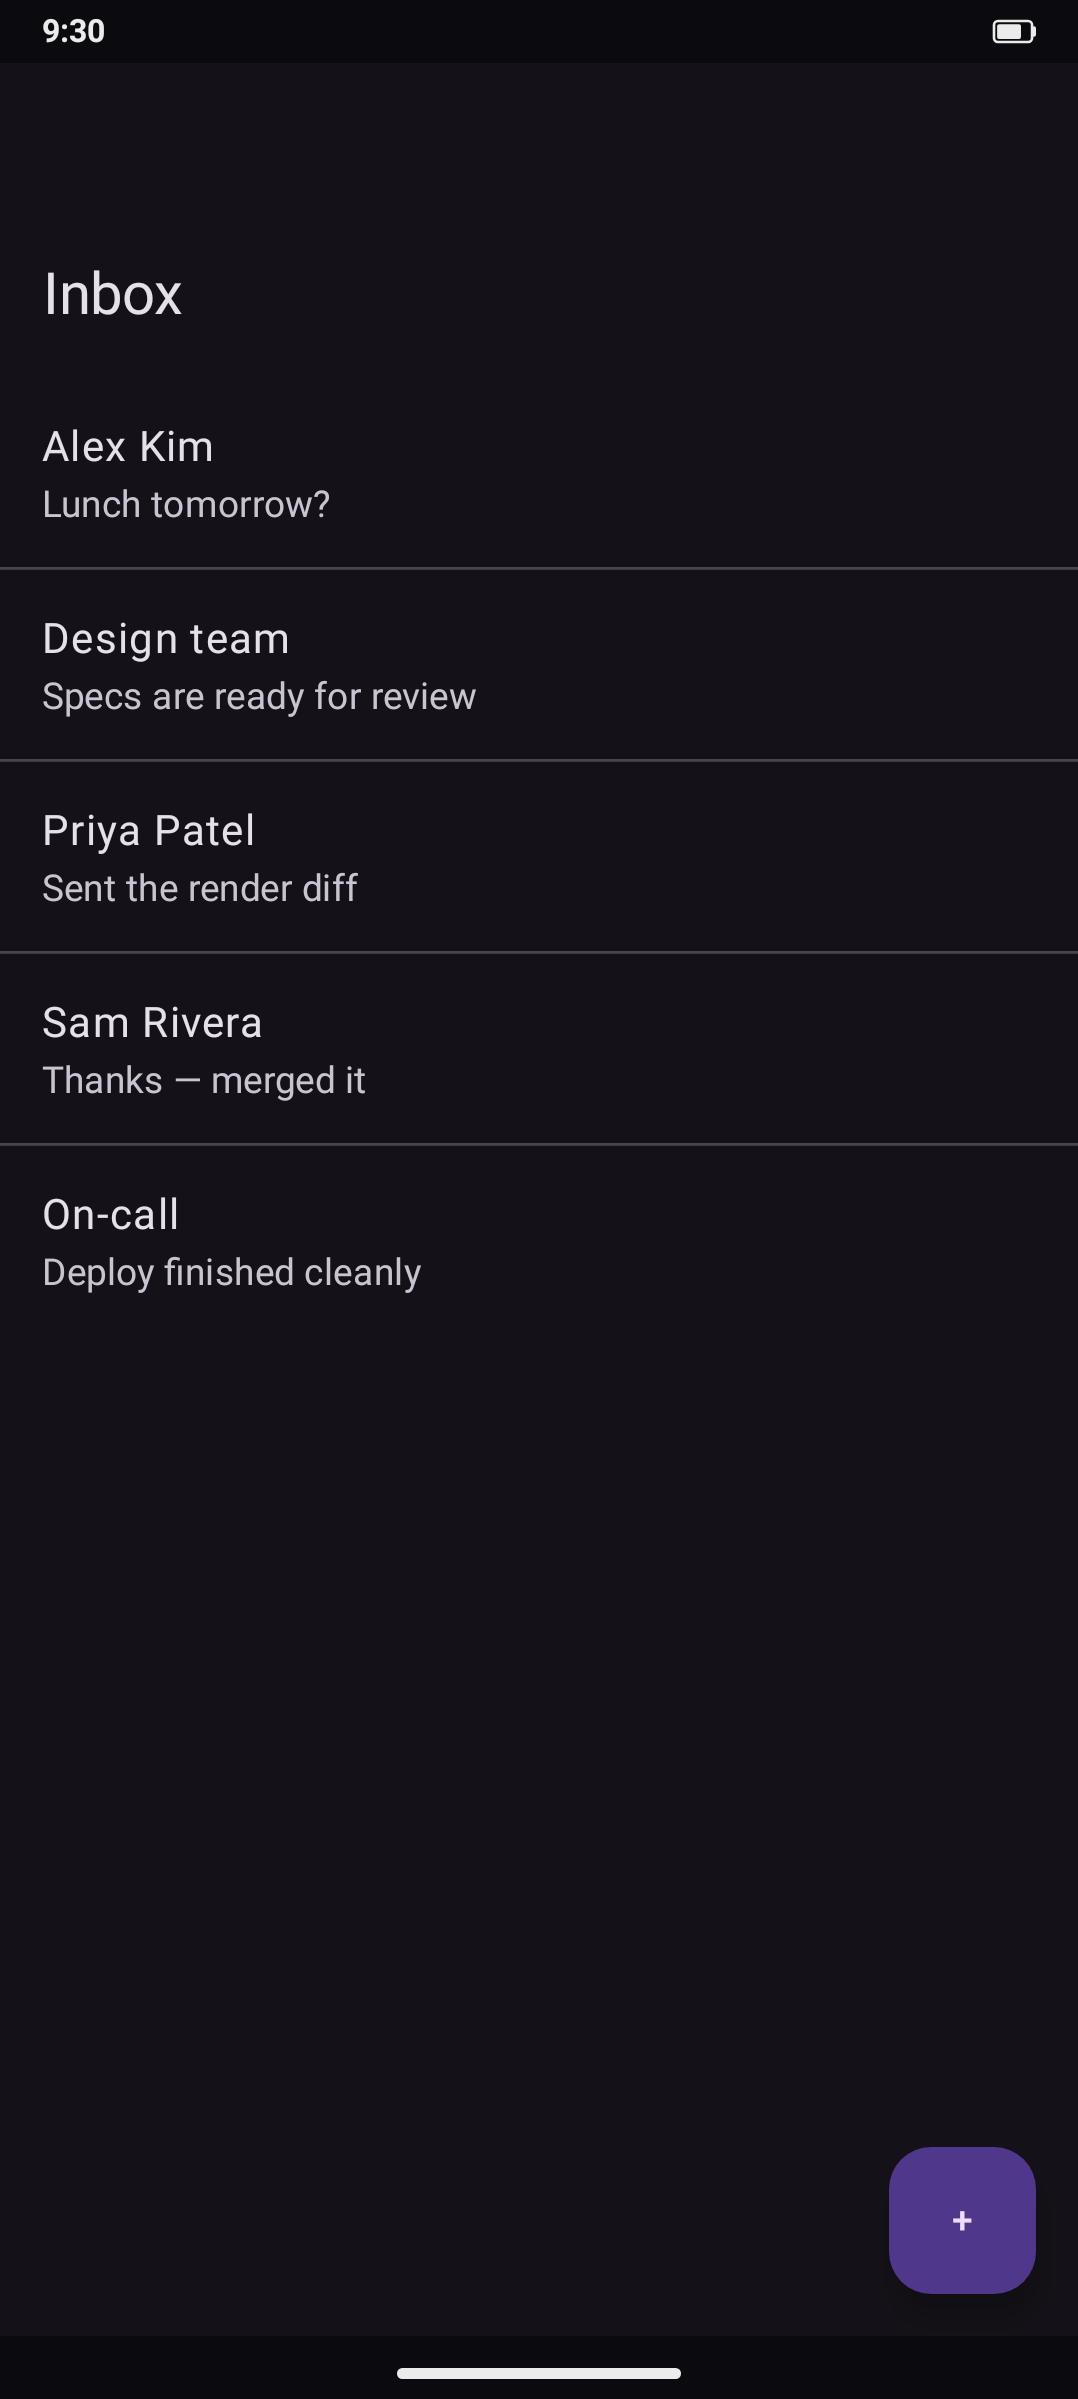
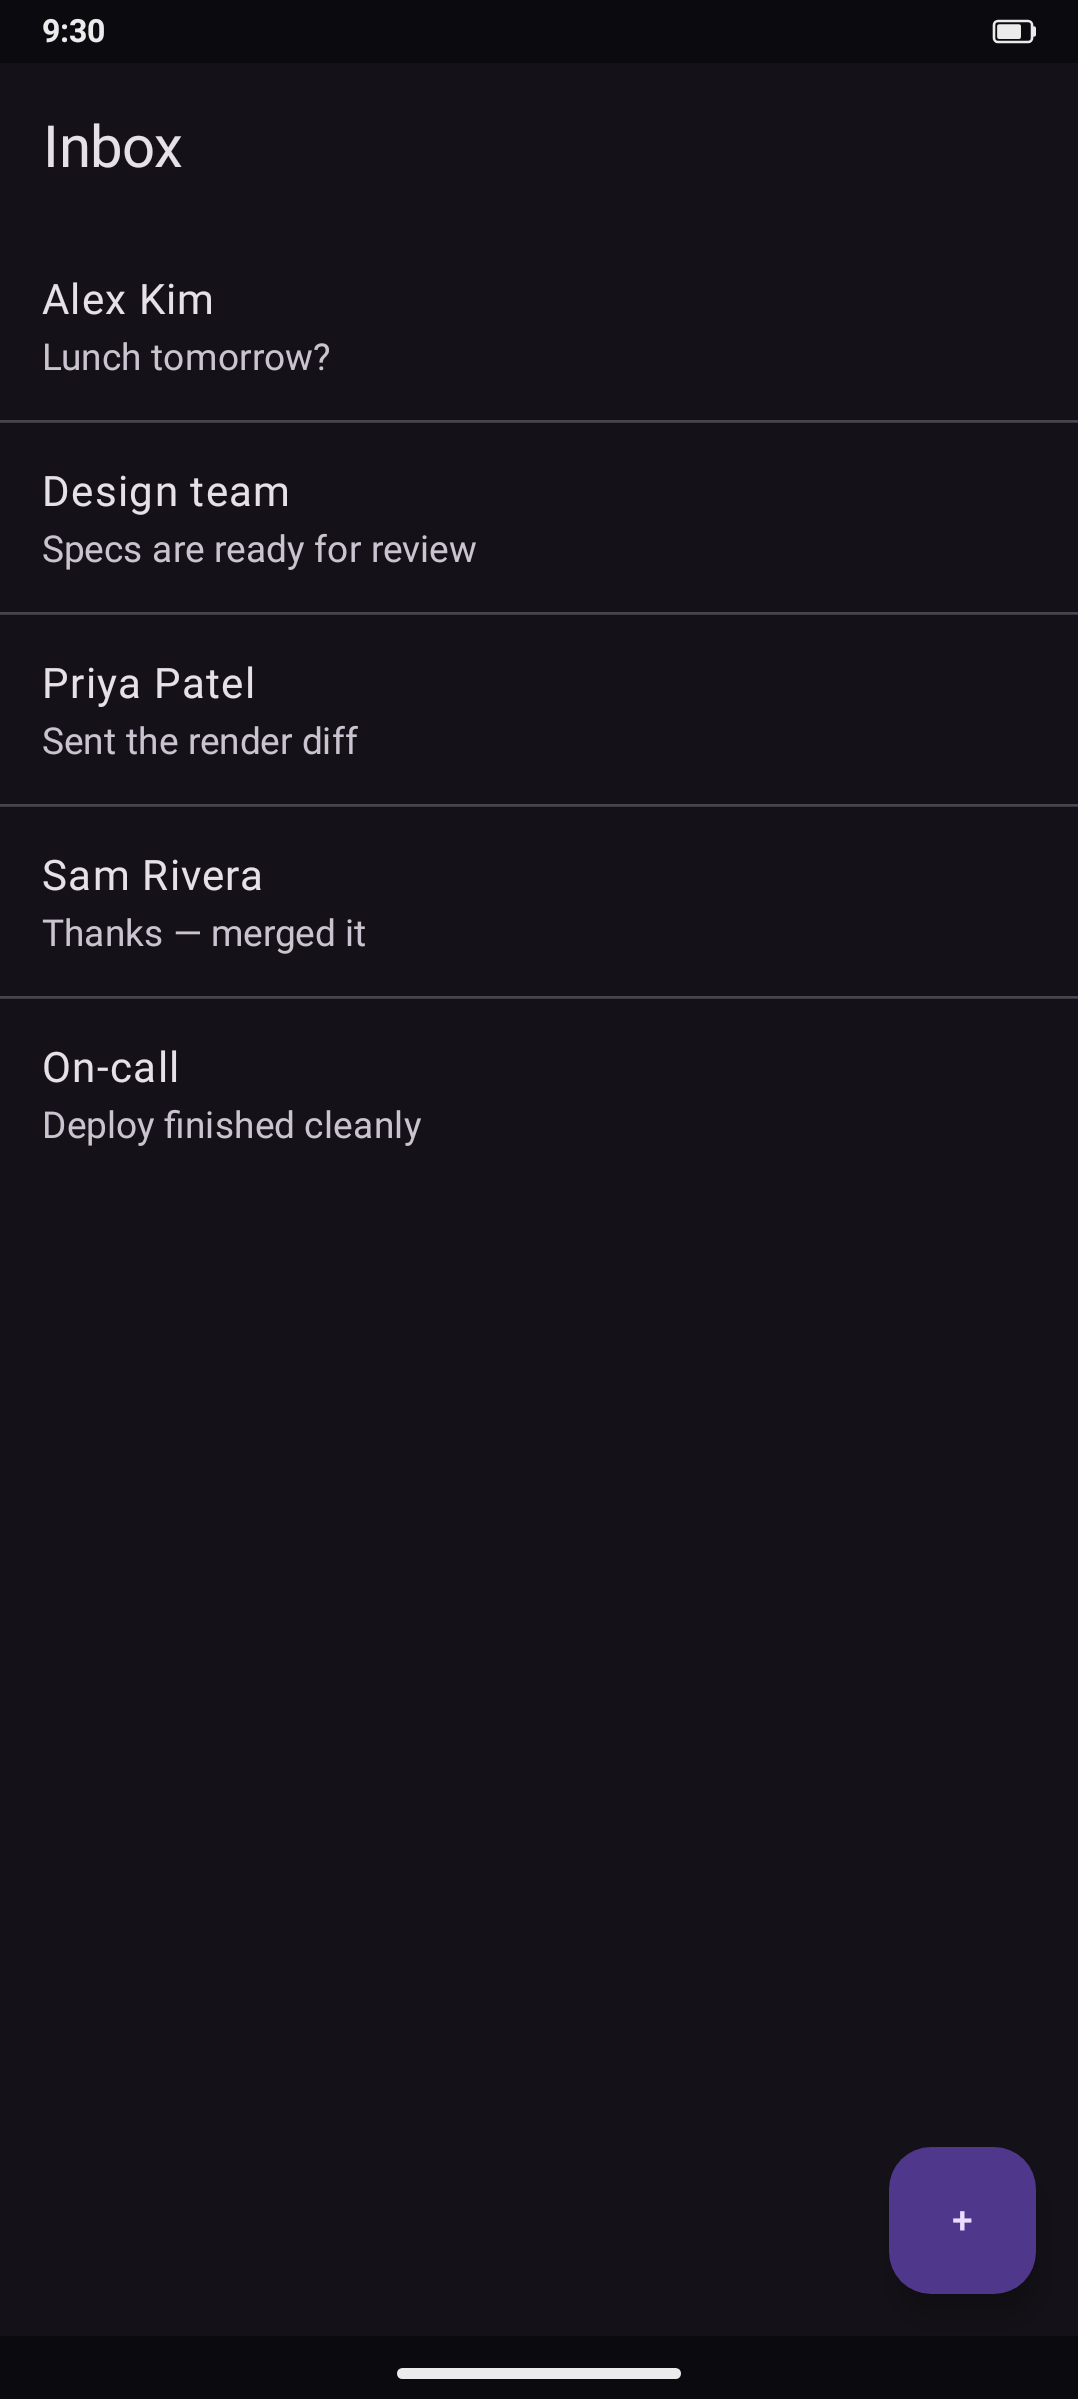
fix(catalog): drive M3 template system-bar spacing via window insets
Replace FullScreenM3's outer 24dp Box padding with real Scaffold/TopAppBar
window insets in AppScaffoldTemplate. The render environment has no window
insets behind the renderer's synthetic OS bars, so the previous outer padding
pushed the whole scaffold down into a blank band below the status bar. Feeding
SYSTEM_BAR_INSET to the TopAppBar (top) and the Scaffold contentWindowInsets
(bottom) instead reproduces a real edge-to-edge M3 scaffold: the app bar paints
under the status bar with its title below the OS clock, and the content/FAB
clear the gesture pill. Refresh the committed sample renders.

Changed region(s): [[0.0306, 0.0308, 0.4286, 0.5552]]

diff --git a/samples/design-catalog-m3/src/main/kotlin/com/example/designcatalogm3/CatalogTheme.kt b/samples/design-catalog-m3/src/main/kotlin/com/example/designcatalogm3/CatalogTheme.kt
@@ -2,7 +2,6 @@ package com.example.designcatalogm3
 
 import android.content.res.Configuration
 import androidx.compose.foundation.isSystemInDarkTheme
-import androidx.compose.foundation.layout.Box
 import androidx.compose.foundation.layout.fillMaxSize
 import androidx.compose.foundation.layout.padding
 import androidx.compose.material3.MaterialTheme
@@ -49,33 +48,27 @@ annotation class CatalogModes
 
 /**
  * Frame for **full-screen scaffold templates** — as opposed to the centred
- * component [CatalogSticker]. The stock [MaterialTheme] fills the device with the
- * `background` surface and the template supplies its own `Scaffold`.
- *
- * Templates render on a phone device with `showSystemUi = true`, so the renderer
- * paints its synthetic Android chrome (a 24dp status bar with the OS clock, a
- * 24dp gesture-pill nav bar — see `SystemBarsFrame` in renderer-android) as a
- * translucent overlay on top of the capture. That overlay *is* the "status bar"
- * the template demonstrates; the matching [SYSTEM_BAR_INSET] padding keeps the
- * template's own app chrome (TopAppBar, bottom bar) clear of the OS clock and
- * gesture pill rather than colliding with them.
+ * component [CatalogSticker]. Just the stock [MaterialTheme] filling the device
+ * with the `background` surface; the template supplies its own `Scaffold` and
+ * drives the system-bar spacing through real window insets (see
+ * [SYSTEM_BAR_INSET]).
  */
 @Composable
 fun FullScreenM3(content: @Composable () -> Unit) {
   val dark = isSystemInDarkTheme()
   MaterialTheme(colorScheme = if (dark) darkColorScheme() else lightColorScheme()) {
-    Surface(Modifier.fillMaxSize()) {
-      Box(Modifier.fillMaxSize().padding(top = SYSTEM_BAR_INSET, bottom = SYSTEM_BAR_INSET)) {
-        content()
-      }
-    }
+    Surface(Modifier.fillMaxSize()) { content() }
   }
 }
 
 /**
  * Height of the renderer's synthetic status / navigation bars (`SystemBarsFrame`
- * draws both at 24dp). Full-screen templates reserve this at the top and bottom
- * so their own chrome doesn't sit under the OS overlay.
+ * draws both at 24dp). The render environment has no real window insets behind
+ * that overlay, so a template feeds this height to its `Scaffold`/`TopAppBar`
+ * `windowInsets` — reproducing a real edge-to-edge M3 scaffold (the app bar
+ * paints under the status bar with its title below the OS clock; content and the
+ * FAB clear the gesture pill) rather than an outer padding that would push the
+ * whole scaffold down into a blank band.
  */
 val SYSTEM_BAR_INSET = 24.dp
 

diff --git a/samples/design-catalog-m3/src/main/kotlin/com/example/designcatalogm3/CatalogPreviews.kt b/samples/design-catalog-m3/src/main/kotlin/com/example/designcatalogm3/CatalogPreviews.kt
@@ -8,6 +8,7 @@ import androidx.compose.foundation.interaction.MutableInteractionSource
 import androidx.compose.foundation.interaction.PressInteraction
 import androidx.compose.foundation.layout.Box
 import androidx.compose.foundation.layout.Column
+import androidx.compose.foundation.layout.WindowInsets
 import androidx.compose.foundation.layout.fillMaxSize
 import androidx.compose.foundation.layout.padding
 import androidx.compose.foundation.layout.size
@@ -288,8 +289,7 @@ fun SegmentedToggle() =
 // whole. Rendered on a phone with `showSystemUi = true` so the capture reads as
 // a real screenshot: the OS status bar (clock, battery) at the top and the
 // gesture-pill nav bar at the bottom, drawn by the renderer's SystemBarsFrame,
-// framing the template's own Material chrome. Placed via [FullScreenM3], which
-// reserves [SYSTEM_BAR_INSET] top/bottom so the app chrome clears the OS overlay.
+// framing the template's own Material chrome. Placed via [FullScreenM3].
 // ---------------------------------------------------------------------------
 
 private val templateMessages =
@@ -301,15 +301,25 @@ private val templateMessages =
     "On-call" to "Deploy finished cleanly",
   )
 
-// Full-screen app scaffold: a TopAppBar (the app's title strip under the OS
-// status bar), a scrolling list of ListItems, and a FloatingActionButton — the
-// canonical M3 screen an app starts a new surface from.
+// Full-screen app scaffold: an edge-to-edge TopAppBar, a scrolling list of
+// ListItems, and a FloatingActionButton — the canonical M3 screen an app starts
+// a new surface from. The render environment has no real window insets behind
+// the renderer's synthetic OS bars, so the scaffold supplies them itself
+// ([SYSTEM_BAR_INSET]): the app bar paints under the status bar with its title
+// below the OS clock, and the content/FAB clear the gesture pill — the same
+// inset-driven layout a real edge-to-edge M3 screen gets from the system.
 @CatalogTemplate
 @Composable
 fun AppScaffoldTemplate() =
   FullScreenM3 {
     Scaffold(
-      topBar = { TopAppBar(title = { Text("Inbox") }) },
+      contentWindowInsets = WindowInsets(bottom = SYSTEM_BAR_INSET),
+      topBar = {
+        TopAppBar(
+          title = { Text("Inbox") },
+          windowInsets = WindowInsets(top = SYSTEM_BAR_INSET),
+        )
+      },
       floatingActionButton = { FloatingActionButton(onClick = {}) { Text("+") } },
     ) { padding ->
       Column(Modifier.padding(padding).fillMaxSize()) {
